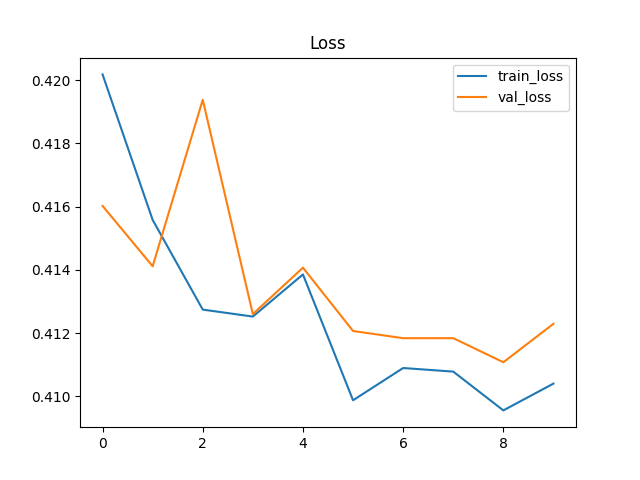
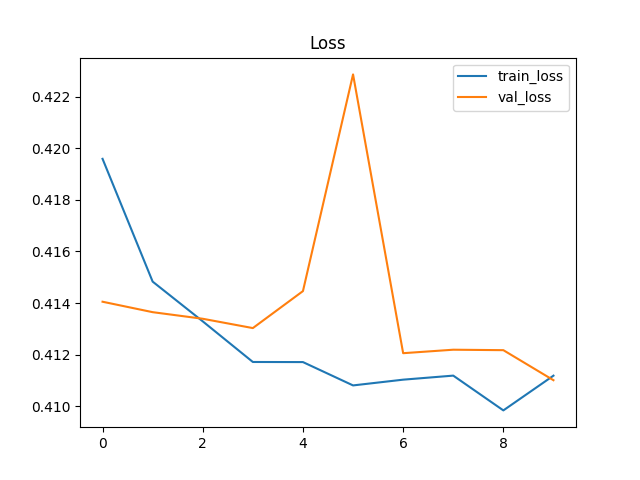
Update app.py and clean up files

diff --git a/scripts/app.py b/scripts/app.py
@@ -1,7 +1,6 @@
-import streamlit as st
 import os
-from PIL import Image
-from scripts.predictImage import predict_image
+import streamlit as st
+from scripts.predict_image import predict_image
 
 st.set_page_config(page_title="Skin Lesion Classification", layout="centered")
 